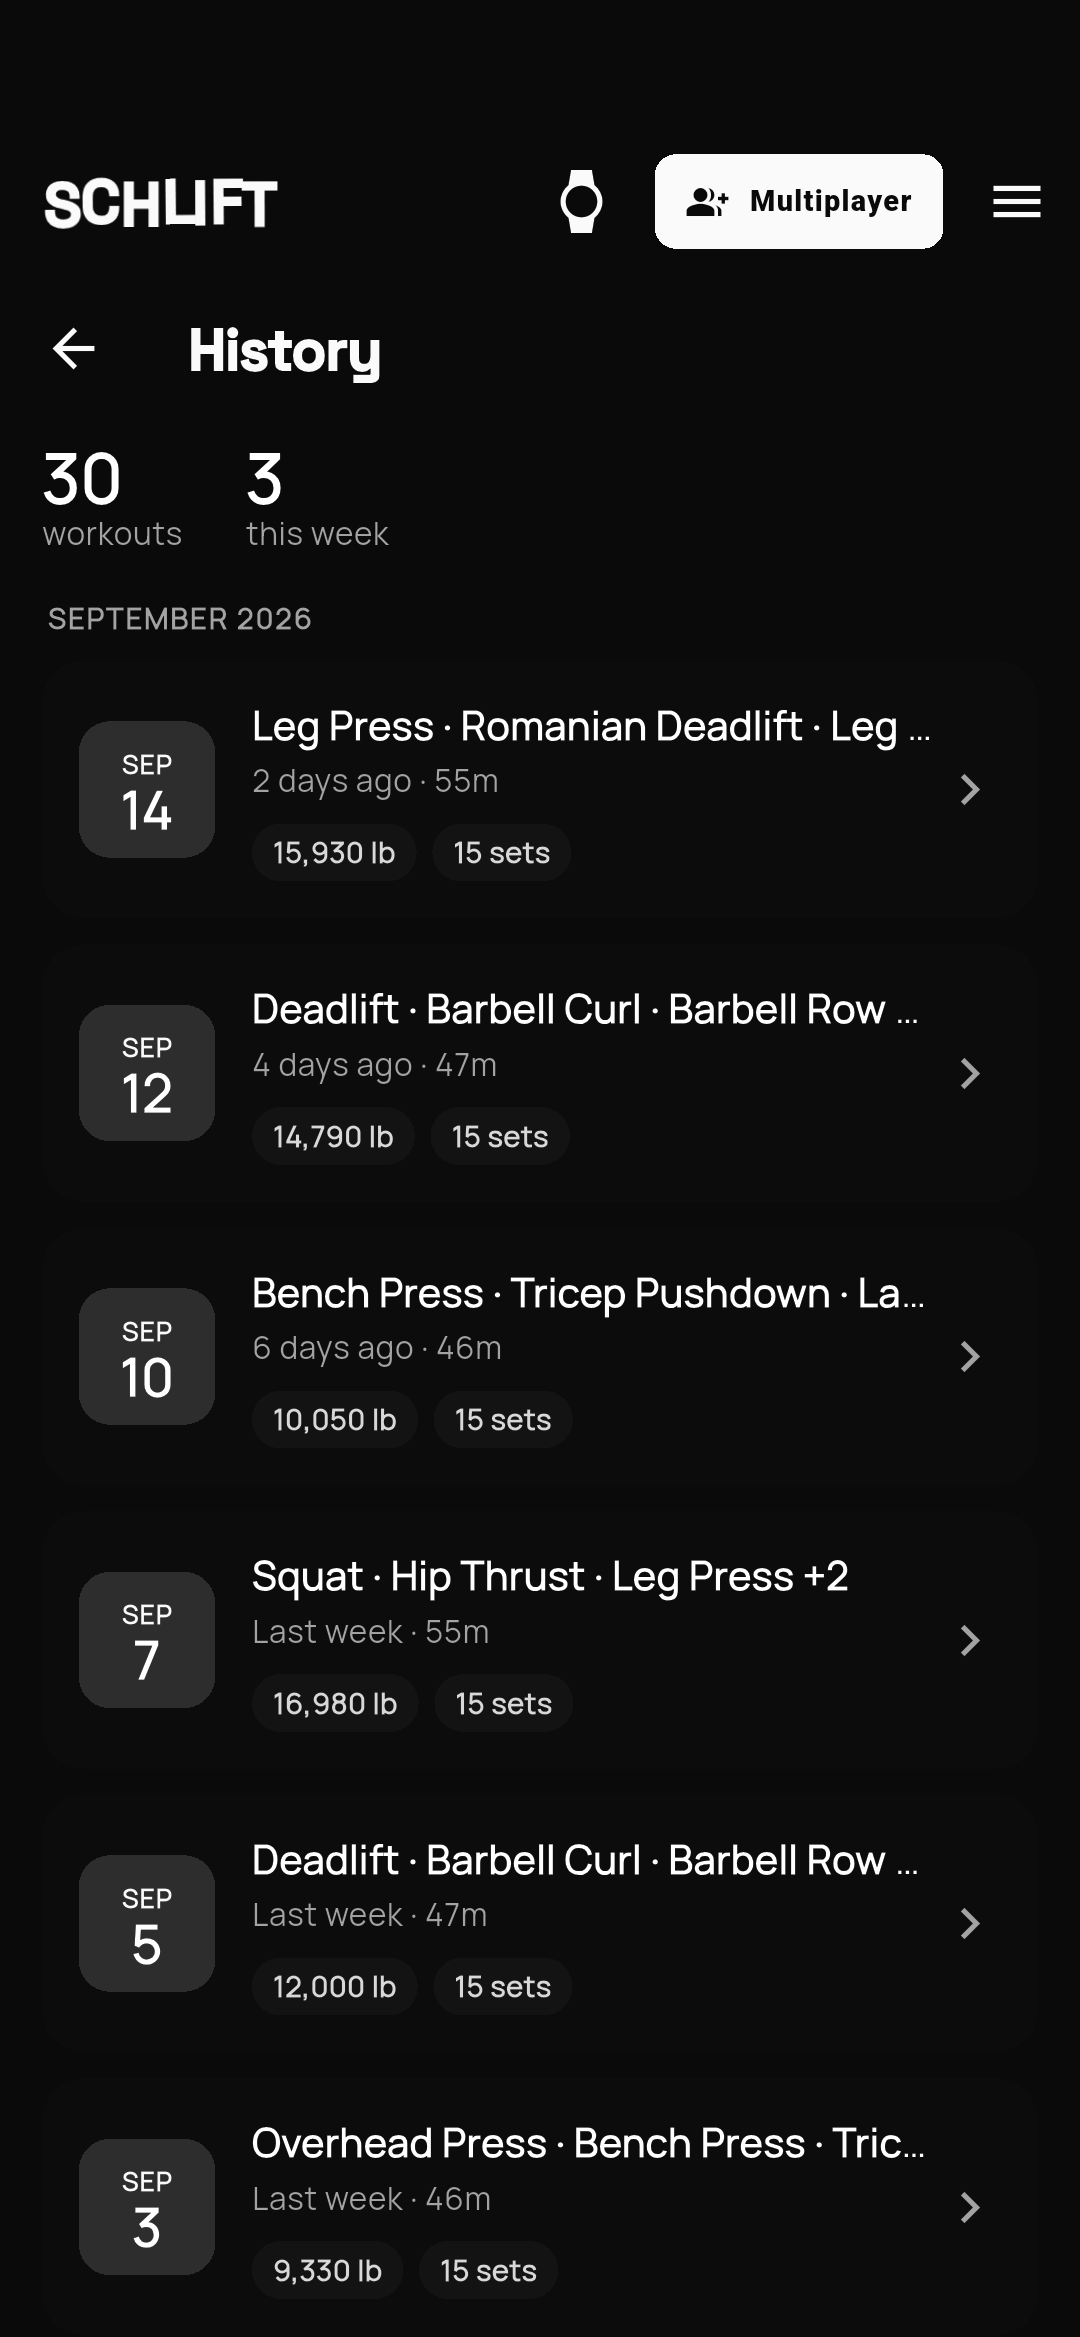
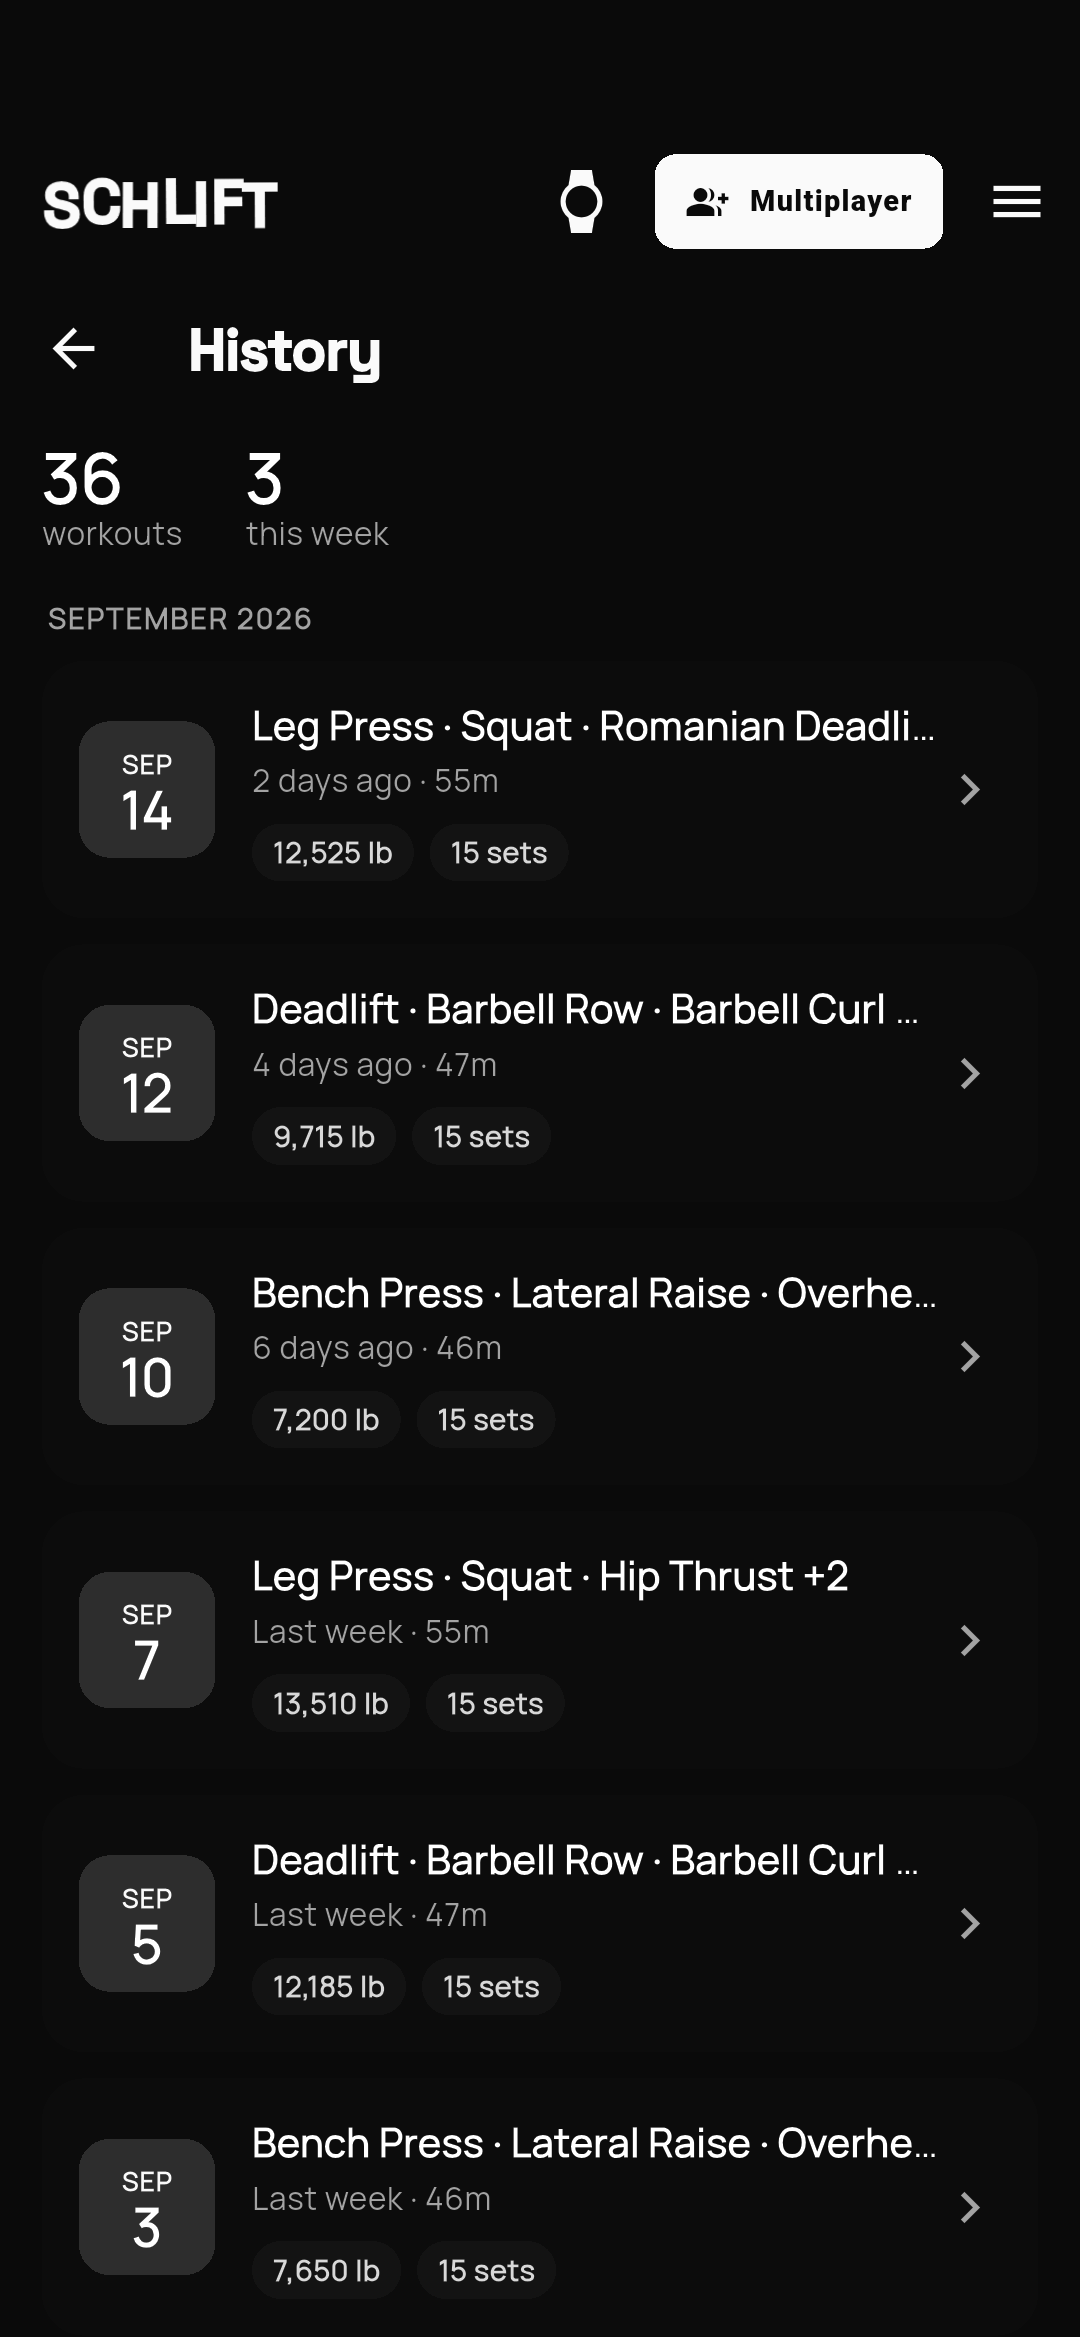
store: believable demo progression — misses, holds, deloads, setbacks
Deterministic rolls per lift per session: ~22% miss reps, two misses in
a row deload 10% (the app's rule), 6% an outright setback, 12% a hold,
rep jumps of one or two. Twelve weeks so the dips have room. Recaptured.

diff --git a/app/integration_test/store_shots_test.dart b/app/integration_test/store_shots_test.dart
@@ -79,8 +79,10 @@ void main() {
       await s.settle(seconds: 3);
       await s.shot('Progress');
 
-      // 02 — one exercise in detail.
-      await s.tapText('Bench Press');
+      // 02 — one exercise in detail: whichever big lift is on screen first
+      // (the list is ordered by recent progress, so it varies with the seed).
+      const lifts = ['Bench Press', 'Squat', 'Deadlift', 'Overhead Press', 'Barbell Row', 'Lat Pulldown'];
+      await s.tapText(lifts.firstWhere(s.isVisible, orElse: () => s.visibleTexts().firstWhere((t) => t.contains('Press'))));
       await s.settle(seconds: 3);
       await s.shot('Exercise detail');
 

diff --git a/src/demo_seed.rs b/src/demo_seed.rs
@@ -144,8 +144,8 @@ impl Lift {
 
     fn outcome(ex: Exercise, session: usize) -> Outcome {
         // A bad day hits everything; otherwise each lift rolls on its own.
-        let bad_day = roll(Exercise::Unspecified, session, 1) < 0.08;
-        if bad_day || roll(ex, session, 2) < 0.18 {
+        let bad_day = roll(Exercise::Unspecified, session, 1) < 0.10;
+        if bad_day || roll(ex, session, 2) < 0.22 {
             Outcome::Missed
         } else {
             Outcome::Made
@@ -185,6 +185,13 @@ impl Lift {
             }
             Outcome::Made => {
                 self.misses = 0;
+                if roll(ex, session, 7) < 0.06 && loadable {
+                    // A setback that is not a miss: a week off, a tweak, a
+                    // change of gym. Drop a notch and rebuild from there.
+                    self.reps = p.rep_low;
+                    self.weight = snap_weight_lb(ex, self.weight * 0.9, AppWeightUnit::Lb);
+                    return;
+                }
                 if roll(ex, session, 5) < 0.12 {
                     return; // made it, but no more than last time: a hold
                 }
